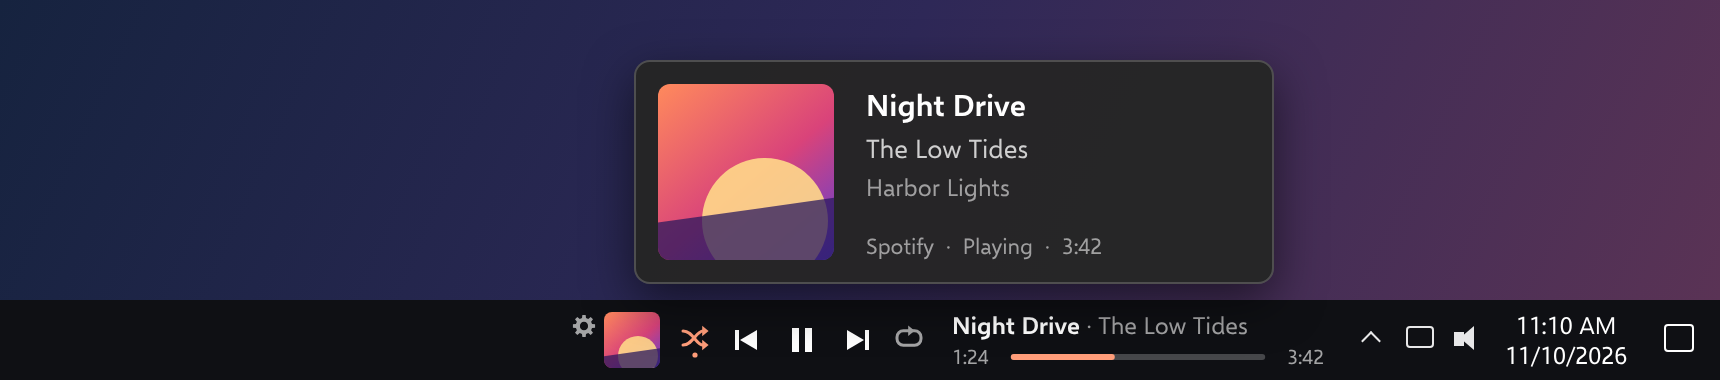
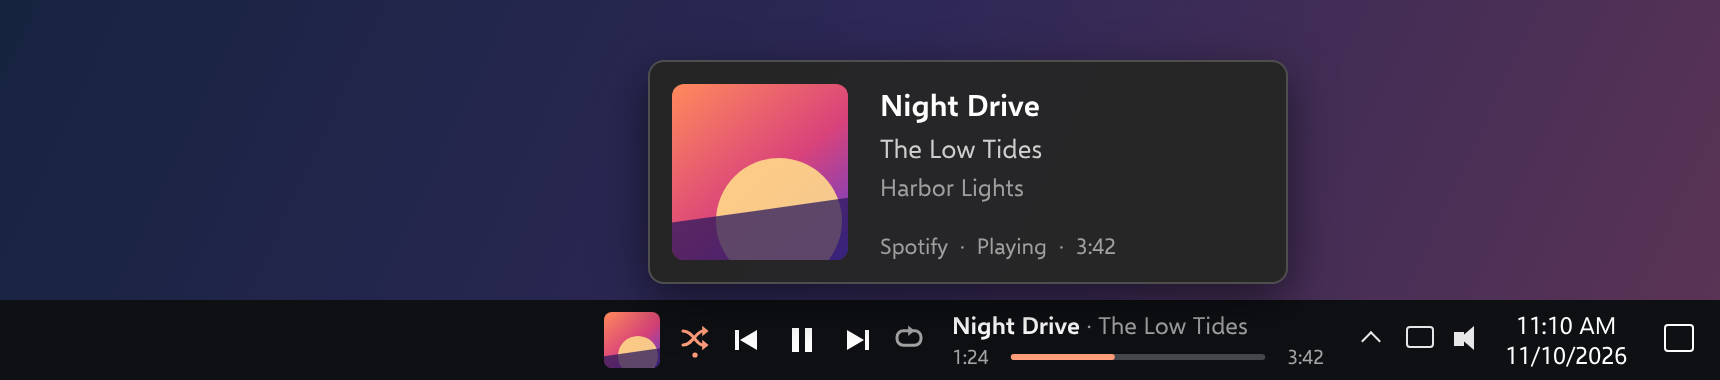
Version 1.5.0: player switcher arrows; settings button hidden by default
- Add up / down arrows left of the album art that step through the apps
  currently playing, shown only when there is more than one
- Hide the settings button by default to make room; settings remain on
  the right-click menu and tray icon
- Mark an available update on the album art when the settings button is
  hidden

Claude-Session: https://claude.ai/code/session_01A9s5QCKFAERrzQajkGGZzC

Changed region(s): [[0.3698, 0.1447, 0.6471, 0.7526], [0.7395, 0.1737, 0.7703, 0.7526], [0.3081, 0.8395, 0.3698, 0.8684]]

diff --git a/src/render.rs b/src/render.rs
@@ -19,7 +19,7 @@ use windows::Win32::UI::Shell::SHCreateMemStream;
 use windows::Win32::UI::WindowsAndMessaging::{UpdateLayeredWindow, ULW_ALPHA};
 
 use crate::config::{
-    FONTS, ITEM_COUNT, ITEM_OUTPUT, ITEM_SEEK, ITEM_TITLE, ITEM_ART, ITEM_GEAR, ITEM_INFO, ITEM_NEXT, ITEM_PLAY, ITEM_PREV, ITEM_REPEAT,
+    FONTS, ITEM_COUNT, ITEM_OUTPUT, ITEM_PLAYERS, ITEM_SEEK, ITEM_TITLE, ITEM_ART, ITEM_GEAR, ITEM_INFO, ITEM_NEXT, ITEM_PLAY, ITEM_PREV, ITEM_REPEAT,
     ITEM_SHUFFLE,
 };
 
@@ -58,6 +58,8 @@ pub enum Hit {
     Shuffle,
     Repeat,
     Output,
+    PlayerUp,
+    PlayerDown,
     Title,
     Seek,
 }
@@ -80,6 +82,8 @@ pub struct LayoutParams {
     pub mini: bool,
     /// The player supports shuffle or repeat, so those buttons can show.
     pub extra: bool,
+    /// More than one player is running, so the switcher can show.
+    pub players: bool,
     /// The shown items left to right (`config::ITEM_*`), zero-padded.
     pub order: [u8; ITEM_COUNT],
     /// 0 small, 1 medium, 2 large.
@@ -113,6 +117,9 @@ pub struct Layout {
     pub extras: [Rect; 2],
     /// The output device button; zero-sized when not shown.
     pub output: Rect,
+    /// The player switcher: an up arrow above a down arrow. Zero-sized when
+    /// not shown.
+    pub players: Rect,
     /// The title sits above the seek bar, rather than each on its own.
     pub stacked: bool,
     pub row1: Rect,
@@ -150,13 +157,17 @@ impl Layout {
             .filter(|item| match *item {
                 0 => false,
                 ITEM_SHUFFLE | ITEM_REPEAT => p.extra && !p.mini,
+                ITEM_PLAYERS => p.players,
                 ITEM_INFO => !p.mini,
                 // The stacked block already has both; don't show them twice.
                 ITEM_TITLE | ITEM_SEEK => !p.mini && !p.order.contains(&ITEM_INFO),
                 _ => true,
             })
             .collect();
-        let mut x = if items.first() == Some(&ITEM_GEAR) { (3.0 * u).round() } else { (6.0 * u).round() };
+        let mut x = match items.first() {
+            Some(&ITEM_GEAR) | Some(&ITEM_PLAYERS) => (3.0 * u).round(),
+            _ => (6.0 * u).round(),
+        };
         let mut end_pad = 0.0;
         for item in items {
             end_pad = 0.0;
@@ -165,6 +176,12 @@ impl Layout {
                 ITEM_GEAR => {
                     l.gear = Rect { x, y: art_y, w: gear_size, h: gear_size };
                     x += gear_size + (3.0 * u).round();
+                }
+                // A narrow column as tall as the art.
+                ITEM_PLAYERS => {
+                    let w = (14.0 * u).round();
+                    l.players = Rect { x, y: art_y, w, h: art_size };
+                    x += w + (3.0 * u).round();
                 }
                 ITEM_ART => {
                     l.art = Rect { x, y: art_y, w: art_size, h: art_size };
@@ -251,6 +268,11 @@ impl Layout {
         // Generous target around the little gear.
         if within(&self.gear, 3.0 * self.u) {
             return if y < self.gear.y + self.gear.h + 4.0 * self.u { Hit::Gear } else { Hit::None };
+        }
+        // The switcher: top half is up, bottom half is down.
+        if within(&self.players, 2.0 * self.u) {
+            let middle = self.players.y + self.players.h / 2.0;
+            return if y < middle { Hit::PlayerUp } else { Hit::PlayerDown };
         }
         // Art and buttons can be clicked over the full height of the taskbar.
         if within(&self.art, 2.0 * self.u) {
@@ -690,6 +712,32 @@ unsafe fn draw(
     }
     }
 
+    // ---- player switcher ----------------------------------------------------
+    if l.players.w > 0.0 {
+        let b = l.players;
+        let half = b.h / 2.0;
+        for (kind, top, dir) in [(Hit::PlayerUp, b.y, -1.0f32), (Hit::PlayerDown, b.y + half, 1.0)] {
+            let zone = Rect { x: b.x - u, y: top, w: b.w + 2.0 * u, h: half };
+            if f.hover == kind {
+                let c = if f.pressed == kind { plate_down } else { plate };
+                fill_round_color(g, c, zone, 3.0 * u);
+            }
+            // A small triangle pointing up or down.
+            let brush = solid(if f.hover == kind { primary } else { dim });
+            let (cx, cy) = (zone.cx(), zone.cy());
+            polygon(
+                g,
+                brush,
+                &[
+                    (cx - 4.0 * u, cy - dir * 2.4 * u),
+                    (cx + 4.0 * u, cy - dir * 2.4 * u),
+                    (cx, cy + dir * 2.6 * u),
+                ],
+            );
+            GdipDeleteBrush(brush);
+        }
+    }
+
     // ---- album art -------------------------------------------------------
     // The art is decoded even when hidden: the highlight color comes from it.
     let size = if l.art.w > 0.0 { l.art.w as i32 } else { (40.0 * u) as i32 };
@@ -732,6 +780,15 @@ unsafe fn draw(
     } else if f.hover == Hit::Art {
         fill_round_color(g, 0x30FF_FFFF, l.art, art_radius);
     }
+    }
+
+    // With the settings button hidden, an available update is marked on the
+    // corner of the album art instead.
+    if f.update && l.gear.w <= 0.0 && l.art.w > 0.0 {
+        let r = 2.4 * u;
+        let brush = solid(0xFF4C_C2FF);
+        GdipFillEllipse(g, brush, l.art.x - r * 0.6, l.art.y - r * 0.6, r * 2.0, r * 2.0);
+        GdipDeleteBrush(brush);
     }
 
     // ---- transport buttons -------------------------------------------------

diff --git a/src/config.rs b/src/config.rs
@@ -102,11 +102,13 @@ pub const ITEM_INFO: u8 = 8;
 pub const ITEM_OUTPUT: u8 = 9;
 pub const ITEM_TITLE: u8 = 10;
 pub const ITEM_SEEK: u8 = 11;
+pub const ITEM_PLAYERS: u8 = 12;
 /// How many items there are.
-pub const ITEM_COUNT: usize = 11;
+pub const ITEM_COUNT: usize = 12;
 
 /// (item, name in the registry, name in the settings window), default order.
 pub const ITEMS: [(u8, &str, &str); ITEM_COUNT] = [
+    (ITEM_PLAYERS, "players", "Player switcher (up / down)"),
     (ITEM_GEAR, "gear", "Settings button"),
     (ITEM_ART, "art", "Album art"),
     (ITEM_SHUFFLE, "shuffle", "Shuffle"),
@@ -122,7 +124,8 @@ pub const ITEMS: [(u8, &str, &str); ITEM_COUNT] = [
 
 /// Items that are hidden unless the user turns them on.
 fn hidden_by_default(item: u8) -> bool {
-    matches!(item, ITEM_OUTPUT | ITEM_TITLE | ITEM_SEEK)
+    // Settings are always a right-click away, so the gear is opt-in.
+    matches!(item, ITEM_GEAR | ITEM_OUTPUT | ITEM_TITLE | ITEM_SEEK)
 }
 
 /// Font choices; the first is the default.
@@ -158,6 +161,15 @@ fn parse_layout(text: &str) -> Vec<(u8, bool)> {
             if !layout.iter().any(|(i, _)| i == item) {
                 layout.push((*item, shown));
             }
+        }
+    }
+    // Layouts saved before the player switcher existed: it takes the
+    // settings button's place, just left of the album art.
+    if !layout.iter().any(|(i, _)| *i == ITEM_PLAYERS) {
+        let at = layout.iter().position(|(i, _)| *i == ITEM_ART).unwrap_or(0);
+        layout.insert(at, (ITEM_PLAYERS, true));
+        if let Some(gear) = layout.iter_mut().find(|(i, _)| *i == ITEM_GEAR) {
+            gear.1 = false;
         }
     }
     for (item, _, _) in ITEMS {

diff --git a/src/main.rs b/src/main.rs
@@ -703,6 +703,7 @@ impl App {
                 show_times: self.cfg.show_times,
                 mini: false,
                 extra: self.snap.can_shuffle || self.snap.can_repeat,
+                players: self.snap.sessions.len() > 1,
                 order: self.cfg.order(tb.primary),
                 button_size: self.cfg.button_size,
                 seek_size: self.cfg.seek_size,
@@ -1091,6 +1092,22 @@ impl App {
             if hit == self.widgets[i].pressed {
                 match hit {
                     Hit::Gear => action = Action::Settings,
+                    Hit::PlayerUp | Hit::PlayerDown => {
+                        // Step through the players, wrapping at the ends.
+                        let ids = &self.snap.sessions;
+                        if ids.len() > 1 {
+                            let at = ids.iter().position(|id| *id == self.snap.app_id).unwrap_or(0);
+                            let next = if hit == Hit::PlayerDown {
+                                (at + 1) % ids.len()
+                            } else {
+                                (at + ids.len() - 1) % ids.len()
+                            };
+                            let name = launch::display_name(&ids[next]);
+                            media::set_preferred(Some(ids[next].clone()));
+                            let _ = self.tx.send(Cmd::Refresh);
+                            self.notice = Some((name, Instant::now()));
+                        }
+                    }
                     Hit::Output => {
                         let both = !self.cfg.output_a.is_empty() && !self.cfg.output_b.is_empty();
                         action = if self.cfg.output_click == 1 && both {

diff --git a/README.md b/README.md
@@ -15,7 +15,7 @@ Nearly everything can be rearranged, hidden or restyled:
 
 From left to right:
 
-- A small settings button
+- Up / down arrows to switch player, when more than one app is playing
 - Album art; click it to bring up the app that is playing
 - Shuffle, previous, play/pause, next, repeat (shuffle and repeat only when
   the player supports them)
@@ -32,10 +32,12 @@ app area is narrowed to make room for it, and on Windows 11 the widget shrinks.
 
 Run `TaskbarMedia.exe`. There is no installer and no other files.
 
-- Click the gear, right-click the widget, or use the tray icon for settings
+- Right-click the widget or use the tray icon for settings (a settings
+  button can be added to the widget in Settings, Layout)
 - Mouse wheel over the widget changes the player's own volume
 - Click the title to copy "Artist - Title"
-- With several players running, right-click and choose one under Player
+- With several players running, use the arrows left of the album art, or
+  right-click and choose one under Player ("Automatic" hands the choice back)
 - Right-click and choose under Output device to switch speakers / headphones,
   or add the output button to the widget in Settings, Layout
 - Shift + mouse wheel over a widget nudges it left or right

diff --git a/CHANGELOG.md b/CHANGELOG.md
@@ -1,5 +1,19 @@
 # Changelog
 
+## 1.5.0
+
+### Added
+- Player switcher: up and down arrows just left of the album art that step
+  through the apps currently playing. They only appear when more than one
+  player is running, and the widget briefly names the player you switch to.
+
+### Changed
+- The settings button is now hidden by default to make room; settings are
+  on the right-click menu and the tray icon. It can be shown again in
+  Settings, Layout. Existing layouts are updated the same way once.
+- With the settings button hidden, an available update is marked with a dot
+  on the corner of the album art.
+
 ## 1.4.1
 
 ### Fixed
